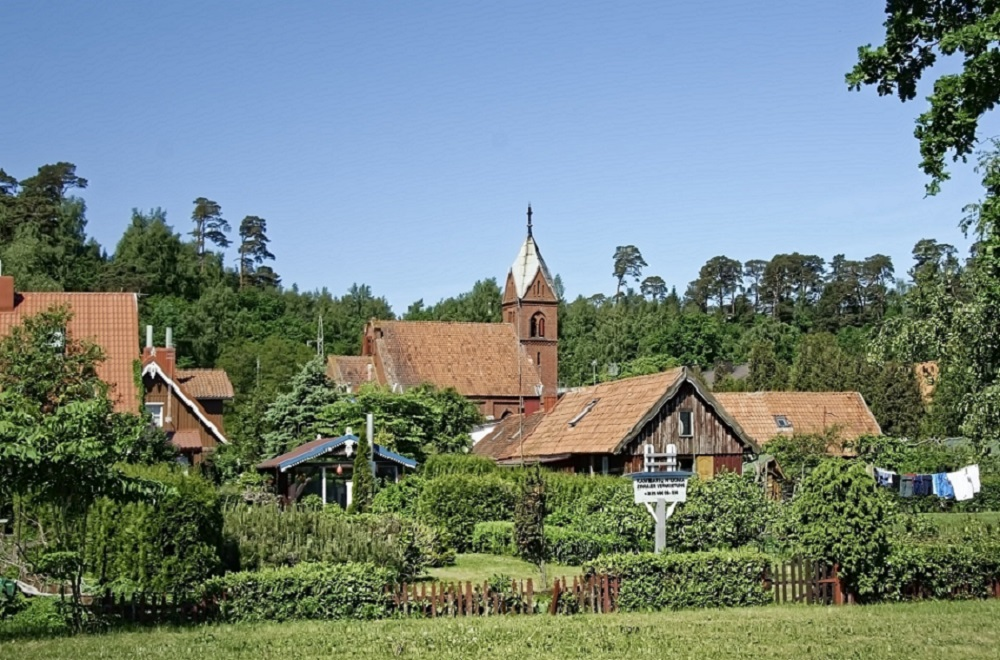
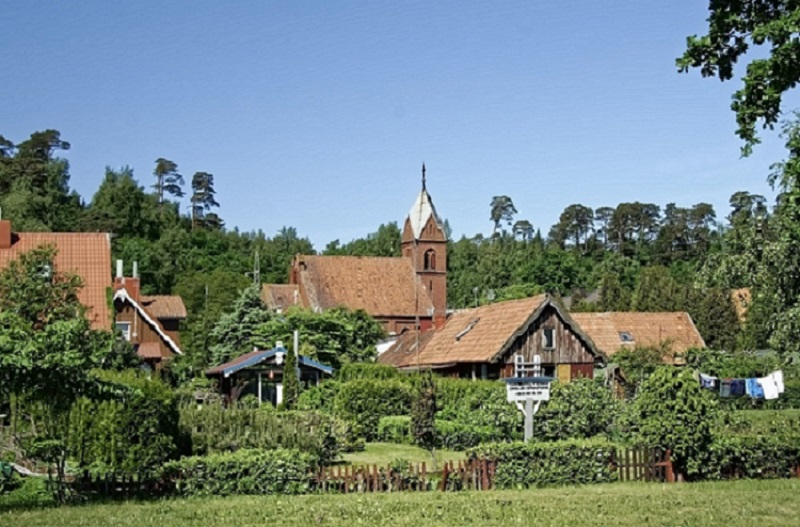
Arbetet jag gjort vecka 20.
Allt finns skrivet i dokumentationen.

Kort sammanfattning nedanför:

Jag har ändrat bildstorleken på alla mina bilder för att de ska ha mindre bildstorlek, ungefär under 200 kB. Jag har även ändrat hierarkin på mina rubriker och underrubriker.

diff --git a/index.html b/index.html
@@ -20,10 +20,10 @@
         <nav>
             <ul id="nav-links">
                 <li><a href="index.html"><h2>Startmenyn</h2></a></li>
-                <li><a href="ryssland.html"><h3>Ryssland</h3></a></li>
-                <li><figure><a href="index.html"><img id="Logga" src="img/Logga_pa_min_hemsida.png" alt=""></a></figure></li>
-                <li><a href="belarus.html"><h3>Belarus</h3></a></li>
-                <li><a href="litauen.html"><h3>Litauen</h3></a></li>
+                <li><a href="ryssland.html"><h2>Ryssland</h2></a></li>
+                <li><figure><a href="index.html"><img id="Logga" src="img/Logga_pa_min_hemsida.jpg" alt=""></a></figure></li>
+                <li><a href="belarus.html"><h2>Belarus</h2></a></li>
+                <li><a href="litauen.html"><h2>Litauen</h2></a></li>
             </ul>
 
             <div class="burger">
@@ -35,7 +35,7 @@
         </nav>
 
         <section id="index_Ryssland">
-            <h4>Ryssland</h4>
+            <h3>Ryssland</h3>
             <p>Lorem ipsum dolor sit, amet consectetur adipisicing elit. Ab blanditiis ex ipsum aliquam, libero earum, impedit illo eius magni laudantium molestiae, similique assumenda dolores adipisci nisi? Atque officia ullam et ipsa nihil, quibusdam sed tempore? Ipsa autem id voluptatibus cupiditate, repellendus porro minima officia corrupti harum, aspernatur perspiciatis quidem magnam.</p>
 
             <p>Lorem ipsum dolor sit amet consectetur adipisicing elit. Corporis ipsum dignissimos id dicta debitis libero fuga adipisci fugit expedita eaque odio nobis nisi reprehenderit magni repudiandae, rem facere eum nihil?
@@ -48,7 +48,7 @@
         </article>
 
         <section id="index_Belarus">
-            <h4>Belarus</h4>
+            <h3>Belarus</h3>
             <p>Lorem ipsum dolor sit amet consectetur adipisicing elit. Corporis ipsum dignissimos id dicta debitis libero fuga adipisci fugit expedita eaque odio nobis nisi reprehenderit magni repudiandae, rem facere eum nihil?</p>
 
             <p>Lorem ipsum dolor sit amet consectetur adipisicing elit. Magni quaerat illum laborum ipsum, quos magnam quae. Reprehenderit nihil et dolor, excepturi accusantium est dicta incidunt, molestiae totam numquam voluptatem eos quisquam sit earum quod magni expedita? Eligendi doloribus veritatis voluptas?
@@ -60,7 +60,7 @@
         </article>
         
         <section id="index_Litauen">
-            <h4>Litauen</h4>
+            <h3>Litauen</h3>
             <p>Lorem ipsum dolor sit amet consectetur adipisicing elit. Corrupti, numquam. Nobis dolorem provident non fugiat vero consectetur aut fuga consequuntur quod quis quidem, quia dolorum accusantium ducimus officia natus tempore minus, consequatur necessitatibus quo doloribus soluta sapiente totam? Temporibus eos quaerat recusandae hic corporis provident eaque. Alias voluptates mollitia reprehenderit sequi velit temporibus eos eligendi autem tempore atque enim, asperiores quae obcaecati molestias veritatis eum odio corrupti suscipit nobis minus.</p>
 
             <p>Lorem ipsum dolor sit amet consectetur adipisicing elit. Veritatis velit vel ipsum nesciunt ab ipsam sit, quibusdam pariatur accusantium illo iusto excepturi, eius veniam repudiandae. Aliquam facere ipsum quos doloribus accusamus rerum, vitae pariatur sed dolor placeat quam ea nihil? 

diff --git a/belarus.html b/belarus.html
@@ -24,11 +24,11 @@
         <nav>
 
             <ul id="nav-links">
-                <li><a href="index.html"><h3>Startmenyn</h3></a></li>
-                <li><a href="ryssland.html"><h3>Ryssland</h3></a></li>
-                <li><figure><a href="index.html"><img id="Logga" src="img/Logga_pa_min_hemsida.png" alt=""></a></figure></li>
+                <li><a href="index.html"><h2>Startmenyn</h2></a></li>
+                <li><a href="ryssland.html"><h2>Ryssland</h2></a></li>
+                <li><figure><a href="index.html"><img id="Logga" src="img/Logga_pa_min_hemsida.jpg" alt=""></a></figure></li>
                 <li><a href="belarus.html"><h2>Belarus</h2></a></li>
-                <li><a href="litauen.html"><h3>Litauen</h3></a></li>
+                <li><a href="litauen.html"><h2>Litauen</h2></a></li>
             </ul>
 
             <div class="burger">
@@ -41,7 +41,7 @@
 
         <section id="section_belarus_kultur">
 
-            <h4>Kultur</h4>
+            <h3>Kultur</h3>
 
             <p>Lorem ipsum dolor sit amet consectetur adipisicing elit. Eveniet voluptates eos unde commodi aspernatur soluta deleniti libero nihil vitae delectus earum, optio, corporis atque consequatur vel explicabo sunt. Quas voluptates temporibus voluptate iusto ratione, voluptas officia. Veritatis expedita deleniti eum. Doloribus itaque officiis praesentium iste culpa, dolore non vitae ipsa laborum quos possimus optio earum enim corrupti, reprehenderit magnam rem cumque tempora dolorum aspernatur vero.</p>
 
@@ -58,7 +58,7 @@
 
         <section id="section_belarus_historia">
 
-            <h4>Historia</h4>
+            <h3>Historia</h3>
 
             <p>Lorem ipsum, dolor sit amet consectetur adipisicing elit. Minus qui incidunt maxime sint molestias, saepe minima aliquid facilis non quidem, a, accusantium consectetur dicta quos soluta inventore libero rerum fugiat?</p>
 

diff --git a/ryssland.html b/ryssland.html
@@ -23,11 +23,11 @@
         <nav>
 
             <ul id="nav-links">
-                <li><a href="index.html"><h3>Startmenyn</h3></a></li>
+                <li><a href="index.html"><h2>Startmenyn</h2></a></li>
                 <li><a href="ryssland.html"><h2>Ryssland</h2></a></li>
-                <li><figure><a href="index.html"><img id="Logga" src="img/Logga_pa_min_hemsida.png" alt=""></a></figure></li>
-                <li><a href="belarus.html"><h3>Belarus</h3></a></li>
-                <li><a href="litauen.html"><h3>Litauen</h3></a></li>
+                <li><figure><a href="index.html"><img id="Logga" src="img/Logga_pa_min_hemsida.jpg" alt=""></a></figure></li>
+                <li><a href="belarus.html"><h2>Belarus</h2></a></li>
+                <li><a href="litauen.html"><h2>Litauen</h2></a></li>
             </ul>
 
             <div class="burger">
@@ -40,7 +40,7 @@
 
         <section id="section_ryssland_kultur">
 
-            <h4>Kultur</h4>
+            <h3>Kultur</h3>
 
             <p>Lorem ipsum dolor sit amet consectetur adipisicing elit. Soluta inventore mollitia facere, quas libero doloribus maiores modi perspiciatis officia iure dolor perferendis quasi quos adipisci nesciunt culpa quidem architecto rem incidunt aut deserunt blanditiis alias eligendi? Hic adipisci maxime excepturi nobis expedita voluptate illo veritatis!</p>
 
@@ -57,7 +57,7 @@
 
         <section id="section_ryssland_historia">
 
-            <h4>Historia</h4>
+            <h3>Historia</h3>
 
             <p>Lorem ipsum dolor sit amet consectetur adipisicing elit. Laborum saepe laudantium optio dicta voluptates similique eaque accusantium, libero odio fuga dolorum adipisci doloribus voluptate reiciendis. Consequuntur nemo officia provident aspernatur mollitia accusamus vero, molestiae eligendi quasi beatae, a assumenda suscipit.</p>
 

diff --git a/litauen.html b/litauen.html
@@ -24,10 +24,10 @@
         <nav>
 
             <ul id="nav-links">
-                <li><a href="index.html"><h3>Startmenyn</h3></a></li>
-                <li><a href="ryssland.html"><h3>Ryssland</h3></a></li>
-                <li><figure><a href="index.html"><img id="Logga" src="img/Logga_pa_min_hemsida.png" alt=""></a></figure></li>
-                <li><a href="belarus.html"><h3>Belarus</h3></a></li>
+                <li><a href="index.html"><h2>Startmenyn</h2></a></li>
+                <li><a href="ryssland.html"><h2>Ryssland</h2></a></li>
+                <li><figure><a href="index.html"><img id="Logga" src="img/Logga_pa_min_hemsida.jpg" alt=""></a></figure></li>
+                <li><a href="belarus.html"><h2>Belarus</h2></a></li>
                 <li><a href="litauen.html"><h2>Litauen</h2></a></li>
             </ul>
 
@@ -41,7 +41,7 @@
 
         <section id="section_litauen_kultur">
 
-            <h4>Kultur</h4>
+            <h3>Kultur</h3>
 
             <p>Lorem ipsum dolor sit amet, consectetur adipisicing elit. Dicta incidunt cupiditate, nostrum laboriosam voluptatem excepturi dolorum iste accusantium omnis odit in eligendi rerum beatae voluptates tempora minus mollitia nisi error eaque quibusdam doloremque ad dolorem! Natus quidem voluptates amet, cupiditate officia odit omnis soluta atque! Blanditiis eligendi beatae necessitatibus in?</p>
 
@@ -58,7 +58,7 @@
 
         <section id="section_litauen_historia">
 
-            <h4>Historia</h4>
+            <h3>Historia</h3>
 
             <p>Lorem ipsum dolor sit amet consectetur adipisicing elit. At earum nobis error excepturi consequatur, illo repellendus, commodi repudiandae delectus incidunt nam neque laborum facere soluta nihil. Inventore, facere iste. Beatae!</p>
 
